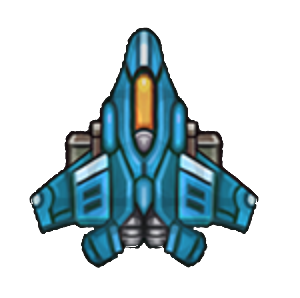
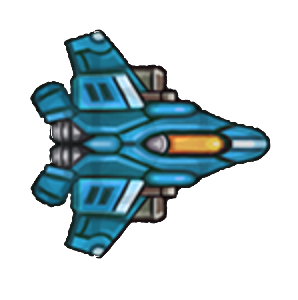
Draw Enemy as an Image, Added orientationInDegrees() funciton to object2D

diff --git a/src/Shooter.java b/src/Shooter.java
@@ -55,11 +55,11 @@ public class Shooter extends DefaultCritter {
     @Override
     public void draw() {
         if (thrusterLeftMoveStatus & !thrusterRightMoveStatus) {
-            StdDraw.picture(position.x, position.y, "resources/shooterL.png", 80, 80, 0);
+            StdDraw.picture(position.x, position.y, "resources/shooterL.png", 80, 80, orientationInDegrees());
         } else if (thrusterRightMoveStatus & !thrusterLeftMoveStatus) {
-            StdDraw.picture(position.x, position.y, "resources/shooterR.png", 80, 80, 0);
+            StdDraw.picture(position.x, position.y, "resources/shooterR.png", 80, 80, orientationInDegrees());
         } else {
-            StdDraw.picture(position.x, position.y, "resources/shooter.png", 80, 80, 0);
+            StdDraw.picture(position.x, position.y, "resources/shooter.png", 80, 80, orientationInDegrees());
         }
     }
 

diff --git a/src/MissileLauncher.java b/src/MissileLauncher.java
@@ -70,8 +70,8 @@ public class MissileLauncher extends DefaultCritter {
     }
 
     public void draw() {
-        double orientationInDegrees = orientation / Math.PI * 180;
-        StdDraw.picture(shooter.position.x, shooter.position.y, "resources/turret.png", 100, 40, orientationInDegrees);
+        StdDraw.picture(shooter.position.x, shooter.position.y, "resources/turret.png", 100, 40,
+                orientationInDegrees());
 
         for (Missile missile : missiles) {
             missile.draw();

diff --git a/src/Enemy.java b/src/Enemy.java
@@ -41,4 +41,9 @@ public class Enemy extends DefaultCritter {
         return (this.position.y - collisionRadius <= 0) || (this.isCollidingWith(shooter));
     }
 
+    @Override
+    public void draw() {
+        StdDraw.picture(position.x, position.y, "resources/enemy.png", 40, 40, orientationInDegrees());
+    }
+
 }

diff --git a/src/Object2D.java b/src/Object2D.java
@@ -216,4 +216,8 @@ public class Object2D implements Serializable {
         return displacement.magnitude();
     }
 
+    public double orientationInDegrees() {
+        return orientation / Math.PI * 180;
+    }
+
 }
